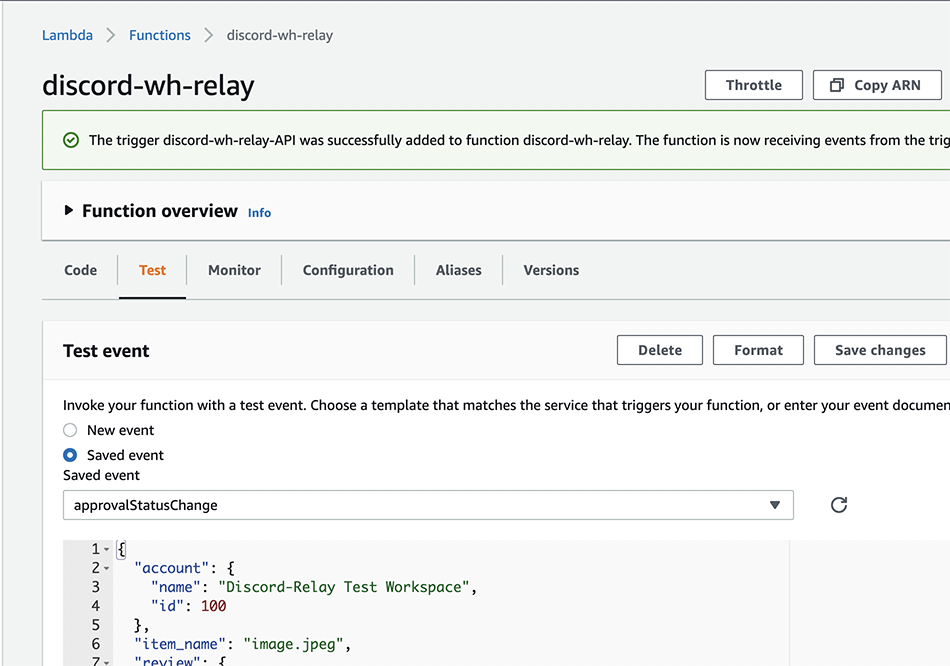
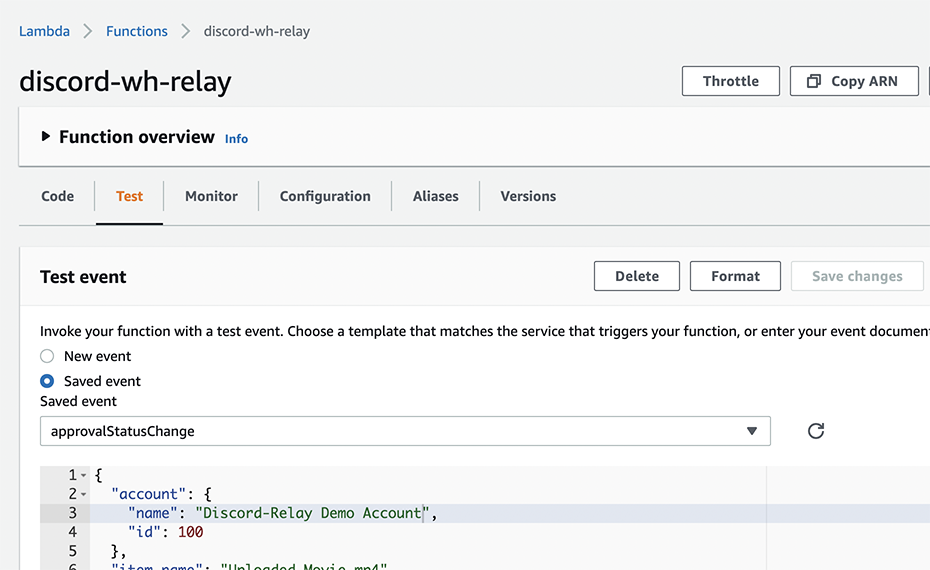
First draft of main track is complete, proofread and QA tested.
This is enough to wire up SyncSketch to Discord.

diff --git a/SyncSketch Webhook Integrations Using AWS.md b/SyncSketch Webhook Integrations Using AWS.md
@@ -2,13 +2,15 @@
 
 SyncSketch has introduced support for *webhooks*, which allows users to receive notifications of various events like approval status changes or new item uploads.  These webhooks can be used to post information into a chat channel, send a text message, or any other method of the user's choosing.
 
-The concept behind webhooks is very simple, and from a coding standpoint isn't difficult either.  The idea is that every time a supported event occurs in your SyncSketch account, a message is sent to a URL that you provide.  Your job is to make a function at that URL listen for the message and do something useful with it.
+> Note: Using Webhooks requires access to the SyncSketch API, which requires an Enterprise SyncSketch account.
 
-The easiest way to build your listener is by using Amazon Web Services, which lets you set up a function that has a URL.  This way, you don't have to set up, administer or maintain a public-facing server.  We will be using primarily an AWS service called Lambda for the functions
+The concept behind webhooks is very simple, and from a coding standpoint isn't difficult either.  The idea is that every time an event occurs in your SyncSketch account (an item is uploaded, the approval status changes, etc.), a message is sent to a URL that you provide.  Your job is to make a function at that URL listen for the message and do something useful with it.
 
-This post will discuss the rquired code and the AWS configuration details.  We will set up an integration with a chat application Discord, because it's simple and free, but the AWS configuration could be adapted to integrate it with anything that has an API, or has webhook support itself.  The actual code is simple; there isn't much to it. The main thing we have to do is set up the AWS function.
+The easiest way to build your listener is by using Amazon Web Services, which lets you set up a function that has a URL.  This way, you don't have to set up, administer or maintain a public-facing server.  We will be using primarily an AWS service called Lambda for the functions.
 
-Discord supports webhooks, in the sense that you can start your own server and build a URL that will post incoming messages into a chat channel on that server. Discord expects incoming messages to be in a particular format, but SyncSketch does not currently allow users to specify the output format of its webhooks.  So in this case we are going to create an intermediary function that listens for the SyncSketch webhooks and uses the information in that message to build a new message in the right format for Discord, then sends its own webhook to Discord.
+This post will discuss the required code and the AWS configuration details.  We will set up an integration with a chat application ([Discord](https://discord.com/), because it's simple and free), but the AWS configuration could be adapted to integrate it with anything that has an API, or has webhook support itself.  The actual code is simple; there isn't much to it. The main thing we have to do is set up the API on AWS.
+
+[Discord supports incoming webhooks](https://support.discord.com/hc/en-us/articles/228383668-Intro-to-Webhooks), in the sense that you can start your own server and get a URL that will post incoming messages into a chat channel on that server. Discord expects incoming messages to be in a particular format, but SyncSketch does not currently allow users to specify the output format of its webhooks.  So in this case we are going to create an intermediary function that listens for the SyncSketch webhooks and uses the information in that message to build a new message in the right format for Discord, then sends its own webhook to Discord. (This same approach could be used to adapt SyncSketch webhooks to virtually anything else.)
 
 [TOC]
 
@@ -17,17 +19,16 @@ The sequence of steps is as follows:
 1. Get an AWS account
 2. Set up a Discord server with a Webhook
 3. Write an AWS Lambda function that posts into the Discord server
-4. Set up a listener in the Lambda function
 5. Set up an API gateway for SyncSketch to send messages through
 6. Set up a webhook in SyncSketch
 
 If you've never done these things before: Every one of these steps is easier than it sounds.
 
 ## Getting your AWS account
-If you don't already have an account, go ahead and go to [aws.amazon.com](https://aws.amazon.com) and sign up for an account.  This Lambda function doesn't do much so it will most likely stay in the free tier.
+If you don't already have an account, go ahead and go to [aws.amazon.com](https://aws.amazon.com) and sign up for an account (or log in if you already have one).  This Lambda function doesn't do much so it will most likely stay in the free tier.
 
 ## Setting Up Your Discord Server
-Once you have a Discord account, setting up your own server is amazingly simple, and can be done in about two minutes.
+Once you have a Discord account and have [downloaded the desktop client](https://discord.com/download), setting up your own server is amazingly simple, and can be done in about two minutes.
 
 In the desktop version of Discord:
 
@@ -57,58 +58,58 @@ That URL is the webhook; properly-formatted messages ("requests") to that URL wi
 
 ## Writing Your Lambda Function
 
-Back in AWS, log into the console.  This will present you with a dizzying list of services.  For this section, the service we're interested in is Lambda.  Find it on the page and open it.
+Back in AWS, log into the [AWS console](https://aws.amazon.com/console/).  This will present you with a dizzying list of services.  For this section, the service we're interested in is **Lambda**.  Find it on the page and open it.
 
 Make a note of the Region you're "in".  In this example, this account is working in the AWS region "N. California (us-west-1)". A notion peculiar to AWS is that your services and functions are associated with a particular region, so if you're not in the right region (or referencing it) you will be wondering why your function is missing.
 
-1. Click on the Functions section in the nav bar and select **Create function**
-2. Click Author from Scratch.
+1. Click on the Functions section in the nav bar and select **Create function**.
+2. Click **Author from Scratch**.
 3. Give your function a name.  In this example we'll call it `discord-wh-relay`.
 4. Leave everything else at the defaults and select **Create function**.  For this example, we'll be writing in JavaScript, so Node.js is appropriate.
-5. The view that appears should have a **Code source** section.  A folder labeled **discord-wh-relay will be selected, with an `index.js` file just underneath.
+5. The view that appears should have a **Code source** section.  A folder labeled **discord-wh-relay** will be selected, with an `index.js` file just underneath.
 6. Double-click `index.js`.  This will reveal a little code template for the *handler* that will handle the incoming webhook from SyncSketch.
-7. Delete the `// TODO implement` line 
-8. Where that line was, let's put in the Discord webhook URL and assign it to a variable:
+7. Delete the code in the template.
+8. In its place, let's put in the Discord webhook URL and assign it to a variable:
 
-`var path ="`*paste-your-discord-webhook-url-between-the-quotes*`";`
+
 
 Next, we'll add a dummy message for now, right where the line you just deleted was:
 
-`const message = 'Jerome Newton changed the approval status of "GroomFaintsWIP_5.mp4" in the "Wedding Scene" review from **In Progress** to **Approved**';`
+`const message = 'The approval status of "GroomFaintsWIP_5.mp4" in the "Wedding Scene" review has changed from **In Progress** to **Approved**';`
 
-Add these lines before the first line:
-
-```
-const https = require('https');
-const url = require('url');
-```
-The code for index.js should now look like this:
+Paste in these lines:
 
 ```
 const https = require('https');
 const url = require('url');
 
 function handler(event, ctx, cb) {
-    const path = "https://discord.com/api/webhooks/825812896431996938/og_Gr7e84y54iuFPU24Coqwgxsw7On1SmQbCFYB__GC9Pj-Q4UlZqBBpmb88MIB19iHf";
-    const message = JSON.stringify(`Jerome Newton changed the approval status of **GroomFaintsWIP_5.mp4** in the **Wedding Scene** review from **In Progress** to **Approved**`);  
+var whurl ="paste-your-discord-webhook-url-between-these-quotes";
+const message = 'The approval status of "GroomFaintsWIP_5.mp4" in the "Wedding Scene" review has changed from **In Progress** to **Approved**';
+
+// CALL THE SENDER FUNCTION HERE
 
 }
+
+// SENDER FUNCTION GOES HERE
+
 exports.handler = handler;
+```
+Paste in the Discord webhook between the quotes of the `var whurl=` line. If you need to recover your webhook URL, see "troubleshooting" below for instructions on how to get it in SyncSketch.)
+
+
+Next, we'll add the line that triggers the webhook message to be sent. This will replace the `// CALL THE SENDER FUNCTION HERE` line:
 
 ```
-
-Next, we'll add the line that triggers the webhook message to be sent. This will replace the lines between where the `message` is defined and before that last curly brace (`}`):
-
-```
-        webhook(message, path)
-        .then((result) => {
-            cb(null, JSON.stringify(result));
-        })
-        .catch(error => cb(error));
+    webhook(message, whurl)
+    .then((result) => {
+        cb(null, JSON.stringify(result));
+    })
+    .catch(error => cb(error));
 ```
 ## Adding the Webhook Sender
 
-Finally, we'll add the `webhook()` function that we are using to send the webhook message to Discord.  You don't need to know much about this code, except that it creates and sends its own webhook request, formatting the message that we give it into the appropriate format for Discord.  Just paste it in after the last line of `index.js`:
+Finally, we'll add the `webhook()` function that we are using to send the webhook message to Discord.  You don't need to know much about this code, except that it creates and sends its own webhook request, formatting the message that we give it into the appropriate format for Discord.  Just paste it in place of `// SENDER FUNCTION GOES HERE`:
 
 ```
 function webhook(message, wh) {
@@ -150,6 +151,7 @@ function webhook(message, wh) {
     });
 }
 ```
+### If you want to know more:
 
 For Discord, this bit here is the magic:
 
@@ -189,7 +191,13 @@ Wait, where is that coming from?  What's going on?  The answer is that you need 
 
 Click the big orange **Deploy** button.
 
-*Now* you can click **Test**.  If all is well, you should hear a "bloop" and your test message should appear in Discord!
+*Now* you can click **Test**.  If all is well, you should hear a "bloop" and your test message should appear in Discord!  An Execution Result tab will show the following response:
+
+```
+"{\"statusCode\":200,\"body\":\"Webhook message sent!\"}"
+```
+
+The **Code** tab will return you to the code.
 
 ### Troubleshooting
 Computers were made to disappoint. Writing code is no exception.  Here are some troubleshooting tips if you're not seeing the Discord message when you click Test.
@@ -206,9 +214,9 @@ Delete all of the code from `index.js`. Copy these first lines and paste them in
 	const url = require('url');
 	
 	function handler(event, ctx, cb) {
-	    const path = "https://discord.com/api/webhooks/825812896431996938/og_Gr7e84y54iuFPU24Coqwgxsw7On1SmQbCFYB__GC9Pj-Q4UlZqBBpmb88MIB19iHf";
-	    const message = JSON.stringify(`Jerome Newton changed the approval status of **GroomFaintsWIP_5.mp4** in the **Wedding Scene** review from **In Progress** to **Approved**`);  
-	    webhook(message, path)
+	    const whurl = "https://discord.com/api/webhooks/825812896431996938/og_Gr7e84y54iuFPU24Coqwgxsw7On1SmQbCFYB__GC9Pj-Q4UlZqBBpmb88MIB19iHf";
+	    const message = JSON.stringify(`The approval status of **GroomFaintsWIP_5.mp4** in the **Wedding Scene** review has changed from **In Progress** to **Approved**`);  
+	    webhook(message, whurl)
 	    .then((result) => {
 	        cb(null, JSON.stringify(result));
 	    })
@@ -227,7 +235,7 @@ Scroll to the top of your function's page and click the **Add Trigger** button.
 
 ![Add Trigger](./assets/lambda-add-trigger.png)
 
-From the popup in the following dialog, select **API Gateway**.
+From the dropdown in the following dialog, select **API Gateway**.
 
 ![Add Trigger](./assets/lambda-add-gateway.png)
 
@@ -247,7 +255,7 @@ By default the name will be `discord-wh-relay-API`:
 In the **Triggers** section, click the linked name to configure it.
 
 ##Configuring the API Gateway
-The new tab that appears is used to configure a new API gateway.  The good news is that the way it's set up by default will work just fine for our purposes; all we need to do is deploy it from the dropdown:
+The new tab that appears is used to configure a new API gateway.  The good news is that the way it's set up by default will work just fine for our purposes; all we need to do is deploy it.  If there's no big **Deploy** button in the upper right, deploy it from the dropdown:
 
 ![Deploying the API](./assets/gateway-deploy.png)
 
@@ -265,6 +273,7 @@ In the dialog that follows, set the **Deployment stage** to `default` and click 
 ![Gateway Config Dialog](./assets/gateway-test-setup.png)
 
 4. Set the Method to POST, since that is the HTTP method used to send webhook messages.
+5. Leave everything else the way it is and scroll to the bottom, and click **Test**.
  
 The Discord bloop should sound and your dummy message should appear again in your Discord channel.  It is now available through a public API.  
 
@@ -275,6 +284,7 @@ If the API gateway test fails, check the following:
 * The URL for your Discord webhook is in quotes in the `path` specified in `index.js`
 * You deployed your changes in the function
 * Your dummy message has the correct syntax.  Pay attention to the use of single quotes and double quotes in the example
+* If the images above don't look anything like what you're seeing, you may have created an HTTP API by mistake.  Delete the `discord-wh-relay-API` and try again, making sure you click REST API in the API configuration dialog.
 * ...
 
 
@@ -287,12 +297,12 @@ As input, the SyncSketch webhook will send JSON in the body of the message that 
 ```
 {
   "account": {
-    "name": "Discord-Relay Test Workspace",
+    "name": "Discord-Relay Demo Account",
     "id": 100
   },
-  "item_name": "image.jpeg",
+  "item_name": "Uploaded Movie.mp4",
   "review": {
-    "name": "Review Name",
+    "name": "Opening Credits Review",
     "id": 123
   },
   "item_creator": {
@@ -302,7 +312,7 @@ As input, the SyncSketch webhook will send JSON in the body of the message that 
   },
   "new_status": "approved",
   "project": {
-    "name": "The Bridegoon Project",
+    "name": "Our Amazing Movie Project",
     "id": 101
   },
   "item_id": 4056789,
@@ -312,53 +322,77 @@ As input, the SyncSketch webhook will send JSON in the body of the message that 
 
 We will pull the values from this data structure to build the message that gets posted to the chat.
 
-> DOCUMENT REPLACING THE DUMMY MESSAGE WITH A TEMPLATE STRING
+In our code we defined `message` to be a dummy message.  Now let's replace the dummy text with the values that come from the webhook message.
+
+1. Return to the Lambda tab (**Lambda > Functions > discord-wh-relay**) and click on its Code tab
+2. Double-click `index.js` in the **Code source** section.
+3. Where it says:
+```
+const message = JSON.stringify(`The approval status of **GroomFaintsWIP_5.mp4** in the **Wedding Scene** review has changed from **In Progress** to **Approved**`);
+```
+it should now read:
+```
+const message = JSON.stringify(`The approval status of **${event.item_name}** in the **${event.review.name}** review has changed from **${event.old_status}** to **${event.new_status}**`);
+```
 
 ### Testing the Update
 
 To test this, we will need to send a message that has a body. Copy the example body above and replace the body data in the `approvalStatusChange` test event.
 
-1. Reopen the tab for your Lambda function: **Lambda > Functions > discord-wh-relay**.
-2. Click the Test tab.
-3. Paste the example body content into the text area below `approvalStatusChange`, replacing what was there by default:
+2. Click the **Test** tab.
+3. Paste the example body content from above into the text area below `approvalStatusChange`, replacing what was there by default:
 
 ![Adding a Body to the Test Event](./assets/lambda-test-event-body.png)
 
+3. Click the **Save Changes** button.
 
-
-Now test it again, and verify that the body data is being formatted correctly in the Discord chat.
-
-> SPEND SOME TIME WITH TROUBLESHOOTING TIPS HERE
-
-
-If this succeeds then it should be accessible from the outside world.  Let's have a look.
-
-> CURL STATEMENT
-
-You should have a new message in the chat, which means your function is complete and working! Now all we have to do is set up the SyncSketch webhook to send messages to it.
+Now test it again by clicking **Invoke**, and verify that the body data is being formatted correctly in the Discord chat.  If this succeeds, your function is complete and working! Now all we have to do is set up the SyncSketch webhook to send messages to it.
 
 ## Creating a SyncSketch Webhook
 
 Before we start setting up the webhook in your SyncSketch account, you need the following bits of information:
+The **invoke URL** of your API Gateway
 
-* The http address of your API Gateway's POST method
-* Which events you want to be notified about from the available list
+Currently there's no way to set up the webhooks in the SyncSketch web site.  But we can still do it using a command-line utility called cURL, which is most likely already installed on your system.
 
-Currently there's no way to set up the webhooks in the SyncSketch web site.  But we can still do it with cURL or Postman.  In fact, the SyncSketch API page will provide the cURL command to set up the webhook, and we will use that as a template to make ours.
+1. Paste the following example cURL statement into a text editor:
 
-> DOCUMENT DOING IT WITH CURL
+```
+curl --location -g --request POST 'https://syncsketch.com/api/v2/notifications/{{account_id}}/webhooks/' \
+--header 'Authorization: apikey {{username}}:{{apiKey}}' \
+--header 'Content-Type: application/json' \
+--data-raw '{
+    "url": "paste-your-invoke-url-between-the-quotes",
+    "type": "item_approval_status_changed"
+}'
+```
+2. In SyncSketch, go to the **Workspace Settings** for your overall SyncSketch account (under the dropdown with your avatar in the upper right).
+3. In the URL (i.e. `https://syncsketch.com/pro/#/account/78901/settings`), there will be a number, at least five digits.  This number is the account ID you can use with the API.  Make a note of it.
+2.Replace the `{{account_id}}` token with your main SyncSketch Account ID.
+3. Replace the `{{username}}` token with your SyncSketch administrator account's email address.
+4. Replace the `{{apiKey}}` token with your SyncSketch administrator account's API key, available from the Settings tab of the Profile page.
+5. Open a Terminal window or other command line utility and paste the updated version of the cURL command.
+
+This should result in 
+`{"url":"https://7bjk6m00kl.execute-api.us-east-1.amazonaws.com/default","headers":"null","type":"item_approval_status_changed","id":1}%`
+
+### Using a GUI Tool Instead of Command-Line
 
 If you don't care to use a command-line tool like cURL, there are many application programs like Postman and Insomnia that will help you build your API request graphically.
 
 To use Postman:
-1. Copy the cURL command from the Create a Webhook API documentation
+1. Copy the updated cURL command from the previous step
 2. Select File > Import
 3. In the import dialog, select the "Raw text" tab.
 4. Paste in the cURL command into the dialog and hit OK
 
 Nw you can replace the default text with your sspecific details, like the URL for the API Gateway
 
-If you send your request and receive a response code of 200, you should be ready to go.  In your SyncSketch account, trigger the event that you want notifications about, and give it a try!
+If you send your request and receive a response code of `200`, you should be ready to go.  
+
+## Try It!
+
+In your SyncSketch account, load an item and change its approval status.  If all goes well: Bloop, and a new Discord message!
 
 > TROUBLESHOOTING
 
